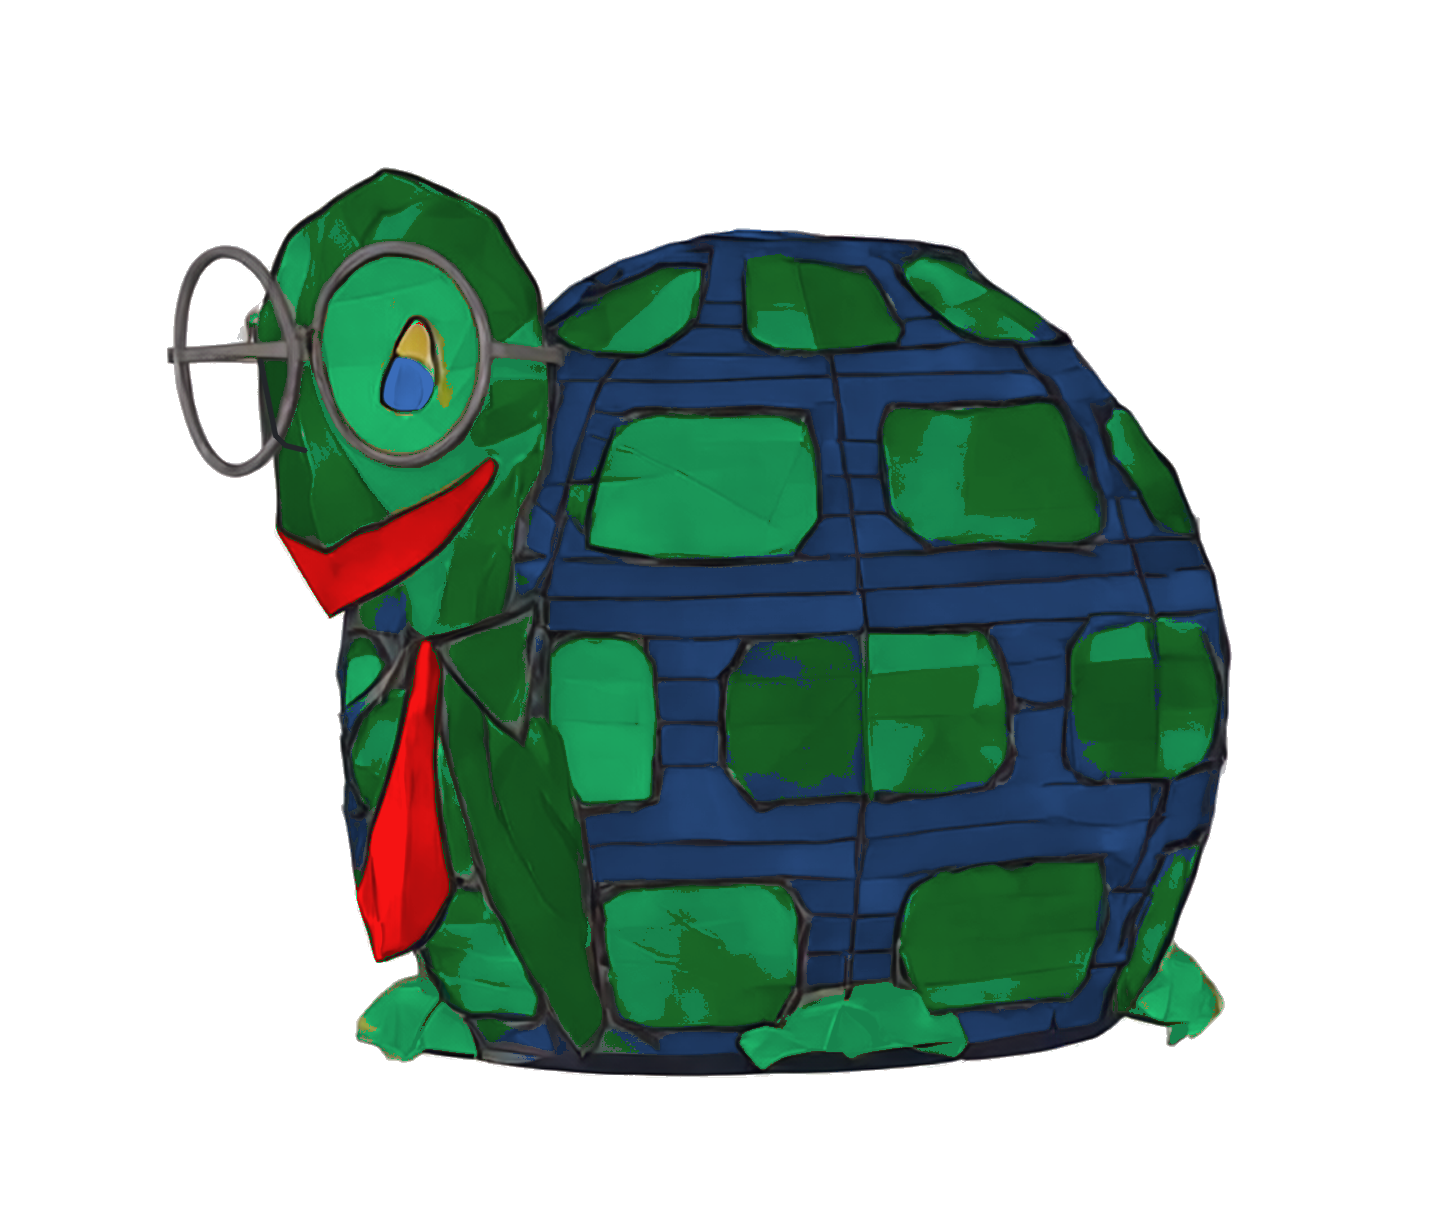
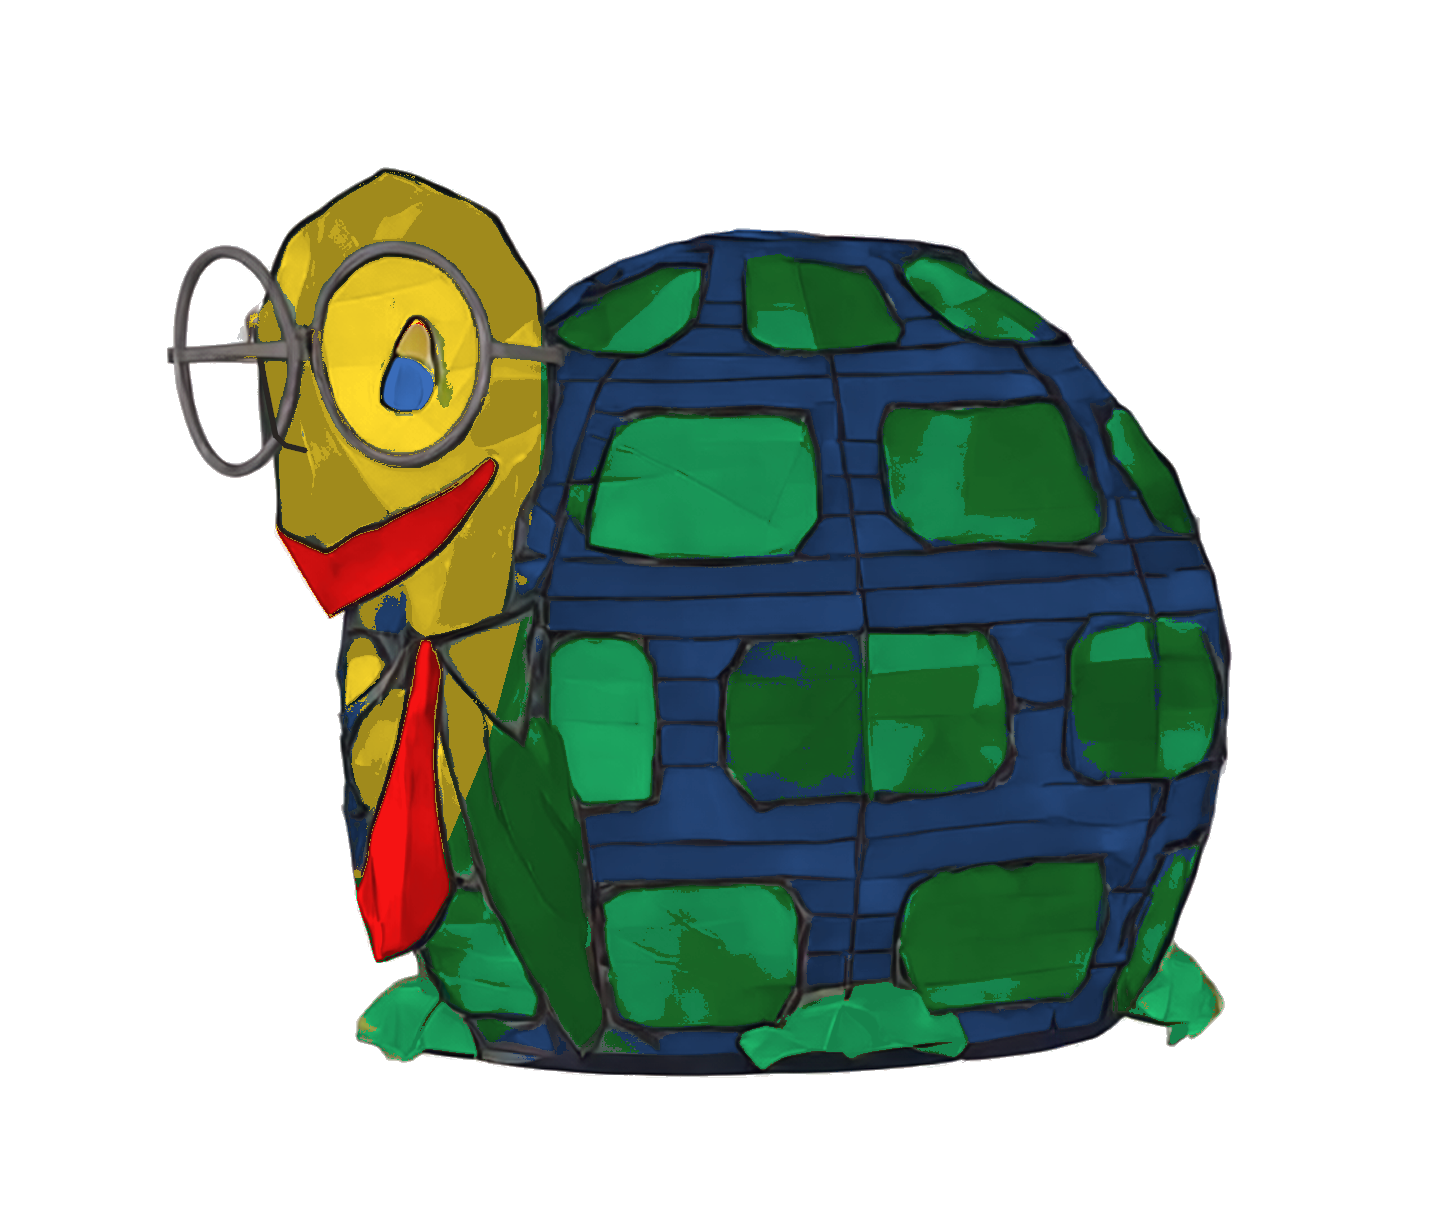
feat: recolor Turtle head and neck to authentic Disney Parade yellow

Changed region(s): [[0.1558, 0.1227, 0.374, 0.675]]

diff --git a/simulator/index.html b/simulator/index.html
@@ -2271,6 +2271,6 @@
         </div>
     </div>
 
-    <script src="app.js?v=68"></script>
+    <script src="app.js?v=69"></script>
 </body>
 </html>

diff --git a/PROJECT_PROGRESS.md b/PROJECT_PROGRESS.md
@@ -104,8 +104,9 @@ This project coordinates synchronized, addressable LED lighting across **7 runne
     - Shifted the snail's neck/body color from dull brown to a vibrant reddish-pink (`#ff007f` / rich parade magenta) in the Disney Electrical Parade aesthetic.
   - **Turtle Graphic Background, Palette Simplification & Outline Enhancement:**
     - Stripped off-white studio background and interior lens transparency from `Turtle.png` to generate a crisp transparent PNG.
-    - Simplified the turtle's color palette:
-      - Greens consolidated into **2 distinct parade shades**: Bright Emerald Green (`#00a86b` / shell windows & eye lens) and Deep Turtle Green (`#184a2e` / head, neck, and body).
+    - Updated the turtle's color palette:
+      - Head and neck facets recolored from green to authentic **Disney Parade Golden Yellow** (`#f5ba13`), matching the iconic Electrical Parade float character design.
+      - Greens consolidated into **2 distinct parade shades**: Bright Emerald Green (`#00a86b` / glowing shell windows) and Deep Turtle Green (`#184a2e` / flippers and feet).
       - Blues unified to a single rich Shell Navy Blue (`#214e78` for shell matrix grid and pupil).
       - Reds unified to a single vivid Parade Red (`#e11d2e` for tie and mouth).
     - Preserved original lead solder line art and added fine anti-aliased contour tracing along the nose bridge and snout to maintain crisp facial definition.
